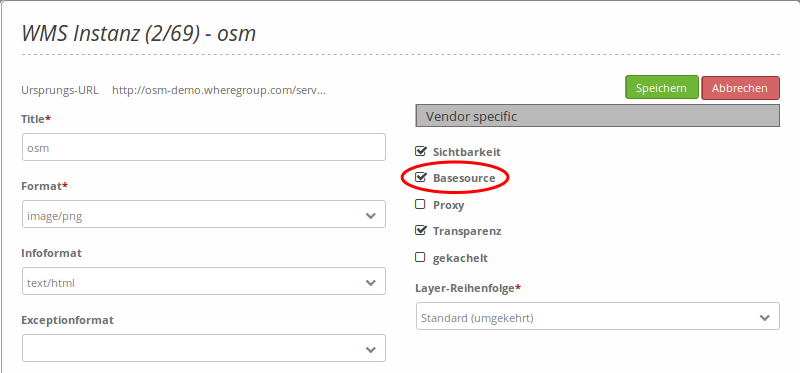
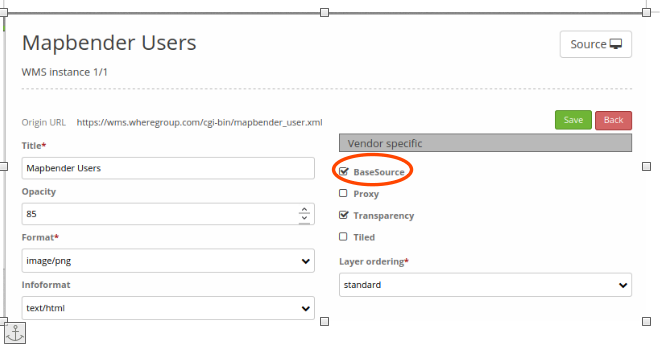
Update of the documentation regarding: quickstart basesourceswitcher
Additionally some corrections of spelling mistakes in the German version.

diff --git a/de/quickstart.rst b/de/quickstart.rst
@@ -34,7 +34,7 @@ Mapbender Quickstart: Erste Schritte mit Mapbender
 
 Mapbender ist ein web-basiertes Geoportal Framework zum Veröffentlichen, Registrieren, Anzeigen, Navigieren und Überwachen von Diensten, mit der Möglichkeit Dienste gesichert anzubieten.
 
-Administrationsoberflächen ermöglichen es Administratoren Karten- und Datendienste zu verwalten und zu kategorisieren. Über die Administration können einzelnen Benutzern und Gruppen Zugriffe gewährt werden.
+Administrationsoberflächen ermöglichen es Administratoren, Karten- und Datendienste zu verwalten und zu kategorisieren. Über die Administration können einzelnen Benutzern und Gruppen Zugriffe gewährt werden.
 
 Mapbender wurde unter Verwendung moderner Webtechnologien komplett neu geschrieben. Die Grundlage bildet das Symfony Framework. Auf der Clientseite finden Sie OpenLayers.
 
@@ -46,7 +46,7 @@ Mit dieser neuen Code-Grundlage wird die Mapbender Idee eines Geoportal Framewor
   * Der Administrator braucht keine Zeile Code zu schreiben, da die Konfiguration über die webbasierte Administrationsoberfläche erfolgt.
   * Suchen (SQL oder Solr) können konfiguriert werden.
   * Anwendungen zur Digitalisierung können aufgebaut werden
-  * Ein Mobiles Template kann für das Erstellen von Anwendung für Smartphones und Tablets verwendet werden
+  * Ein Mobiles Template kann für das Erstellen von Anwendungen für Smartphones und Tablets verwendet werden
 
 Sie brauchen nichts weiter als einen Standard Webbrowser für diesen Schnellstart (Quickstart).
 
@@ -78,7 +78,7 @@ Starten Sie Mapbender
 
 #. Die Anwendung braucht eine kurze Zeit, um zu starten.
 
-Falls Sie Schwierigkeiten haben, Mapbender zu starten, überprüfen Sie ob der Apache Web Server und die PostgreSQL Datenbank laufen.
+Falls Sie Schwierigkeiten haben, Mapbender zu starten, überprüfen Sie, ob der Apache Web Server und die PostgreSQL Datenbank laufen.
 
 
 
@@ -156,7 +156,7 @@ Ihre Anwendung wurde erstellt. Jetzt brauchen Sie Elemente (z.B. Kartenelement, 
   .. image:: ../figures/mapbender_create_application.png
 
 
-.. tip:: Beachten Sie, dass derzeit die Layout-, Icon- und Farbanpassungen im online über den CSS_Editor oder in css- und twig-Dateien erfolgen. Lesen Sie dazu die Dokumentation unter `Wie werden eigene Vorlagen (templates) erzeugt? <customization/templates.html>`_.
+.. tip:: Beachten Sie, dass derzeit die Layout-, Icon- und Farbanpassungen online über den CSS_Editor oder in css- und twig-Dateien erfolgen. Lesen Sie dazu die Dokumentation unter `Wie werden eigene Vorlagen (templates) erzeugt? <customization/templates.html>`_.
 
 
 Kopieren und Umbenennen einer Anwendung
@@ -269,13 +269,12 @@ Sie können Dienste für Ihre Anwendung konfigurieren. Vielleicht möchten Sie n
 **Dienstekonfiguration:**
 
 * Titel: Name der bei der Anwendung angezeigt wird
+* Opacity: wählen Sie die Opazität (Deckkraft) in Prozent
 * Format: wählen Sie das Format für den getMap-Requests
 * Infoformat: wählen Sie das Format für getFeatureInfo-Requests (text/html für die Ausgabe als HTML wird empfohlen)
 * Exceptionformat: wählen Sie das Format für Fehlermeldungen
-* Opacity: wählen Sie die Opazität (Deckkraft) in Prozent
 * Kachel-Puffer (Tile buffer): Dieser Parameter gilt für Dienste, die gekachelt angefordert werden und gibt an, ob weitere umgebende Kacheln abgerufen werden sollen. Damit sind diese bei einer Pan-Bewegung schon heruntergeladen und sichtbar. Je höher der Wert, desto mehr umgebende Kacheln werden abgerufen. Default: 0.
 * BBOX-Faktor: Dieser Parameter gilt für Dienste, die nicht-gekachelt angefordert werden. Hier kann man angeben, wie groß das zurückgegebene Bild sein soll. Ein Wert größer 1 wird ein größeres Kartenbild anfordern. Default: 1.25 und kann auf 1 gesetzt werden.
-* Sichtbarkeit (Visible): soll der Dienst sichtbar sein
 * BaseSource: soll der Dienst als BaseSource behandelt werden (BaseSources können beim Ebenenbaum ein-/ausgeblendet werden)
 * Proxy: bei Aktivierung wird der Dienst über Mapbender als Proxy angefordert
 * Transparenz: Standard ist aktiviert, deaktiviert wird der Dienst ohne transparenten Hintergrund angefordert (getMap-Request mit TRANSPARENT=FALSE)
@@ -295,19 +294,13 @@ hängen. Es können auch feste Werte übermittelt werden.
 Das folgende Beispiel zeigt die Definition eines Parameters „group“, der als
 Inhalt die Gruppe des gerade in Mapbender angemeldeten Nutzers weitergibt.
 
-.. image:: ../figures/mapbender3_vendor_specific_parameter.png
+.. image:: ../figures/mapbender_vendor_specific_parameter.png
 
-* Type: „single“, „multiple“, „interval“ (multiple Values in Dimensions)
+* Vstype: Mapbender spezifische Variablen: Gruppe (groups), User (users), Simple.
 * Name: Parameter Name im WMS Request.
 * Default: Standardwert.
-* Extent: Verfügbare Werte (bei Multiple als kommaseparierte Liste).
-* Vstype: Mapbender spezifische Variablen: Gruppe (groups), User (users), Simple.
+
 * Hidden: Wenn der Wert gesetzt ist, werden die Anfragen serverseitig versendet, so dass die Parameter nicht direkt sichtbar sind.
-
-Momentan eignet sich das Element, um Benutzer und Gruppeninformationen
-weiterzugeben, z.B. für Benutzer die $id$ und für Gruppen den Parameter
-$groups$.
-
 
 **Layerkonfiguration:**
 
@@ -321,7 +314,6 @@ $groups$.
 * Aufklappen (toggle) - aufklappen beim Start der Anwendung
 * Sortieren (reorder) - Ebenen können über drag&drop in der Anwendung verschoben werden
 * ... -> öffnet einen Dialog mit weiteren Informationen
-* name - Layername der Service Information (wird beim getMap-Request verwendet und ist nicht veränderbar)
 * Style - wenn ein WMS mehr als einen Stil anbietet, können Sie einen anderen Stil als den standard (default) Stil wählen.
 
 
@@ -336,7 +328,7 @@ Mapbender bietet eine Reihe von Elementen (Modulen) an, aus denen Sie Ihre Anwen
 
 #. Wählen Sie ein Element aus der Liste aus.
 
-#. Beachten Sie die verschiedenen Bereiche Ihrer Anwendung. Stellen Sie sicher, dass sie das Element zum richtigen Bereich hinzufügen.
+#. Beachten Sie die verschiedenen Bereiche Ihrer Anwendung. Stellen Sie sicher, dass Sie das Element zum richtigen Bereich hinzufügen.
 
 #. Konfigurieren Sie das Element. Hinweis: Wenn Sie ein Element z.B. **Karte (map)** auswählen, sehen Sie lediglich die Optionen für dieses Element und können es entsprechend konfigurieren.
 
@@ -344,7 +336,7 @@ Mapbender bietet eine Reihe von Elementen (Modulen) an, aus denen Sie Ihre Anwen
 
 #. Schauen Sie sich Ihre Anwendung an. Öffnen Sie Ihre Anwendung über den Button |mapbender-button-show|.
 
-Jetzt sollten sie eine Idee davon haben, wie einfach es ist eine Mapbender-Anwendung ohne Codes zu verändern.
+Jetzt sollten sie eine Idee davon haben, wie einfach es ist, eine Mapbender-Anwendung ohne Codes zu verändern.
 
 
   .. image:: ../figures/mapbender_application_elements.png

diff --git a/en/quickstart.rst b/en/quickstart.rst
@@ -268,7 +268,6 @@ You can configure the WMS for your specific application. Maybe you don't want to
 * Opacity: choose opacity in percent
 * Tile buffer: This parameter is valid for tiles services and specifies if additional tiles should be requested. If the user pans the map, these tiles are already downloaded and visible. The higher the value the more tiles are requested. Default: 0
 * BBOX-Faktor: This parameter is valid for non-tiled WMS services. You can specify the size of the returned map-image. A value greater than 1 will request a bigger map-image. Default: 1.25, can be set to 1.
-* Visible: set the visibility of the request
 * BaseSource: should the Service be handled as BaseSource (BaseSources can be shown/hided in the layertree)
 * Proxy: if active the service will be requested by Mapbender and not directly
 * Transparency: default is active, the source is without a transparent background if it is deactivated (getMap-Request with TRANSPARENT=FALSE)
@@ -288,20 +287,15 @@ also add hard coded values.
 The following example shows the definition of the parameter "group" which
 transfers the group-value of the logged-in user.
 
-.. image:: ../figures/mapbender3_vendor_specific_parameter.png
+.. image:: ../figures/mapbender_vendor_specific_parameter.png
            :scale: 80
 
 
-
-* Type: „single“, „multiple“, „interval“ (multiple values in dimensions)
+* Vstype: Mapbender specific variables. Group (groups), User (users), Simple.
 * Name: parameter name of the WMS request.
 * Default: the default value.
-* Extent: available values (multiple as a comma seperated list).
-* Vstype: Mapbender specific variables. Group (groups), User (users), Simple.
-* Hidden: If this value is set, requests are send via a server so that the parameters are not directly visible.
 
-Currently, the element can be used to transfer user- and groupinformation,
-e.g. for a user the $id$ and for groups the value $group$.
+* Hidden: If this value is set, requests are send via a server so that the parameters are not directly visible.
 
 
 **Layer configuration:**

diff --git a/de/functions/basic/layertree.rst b/de/functions/basic/layertree.rst
@@ -29,7 +29,7 @@ Funktionen
            :scale: 80
            :alt: Komplexer Layertree mit mehreren Layersets in der Seitenleiste, unterteilt in thematischen Gruppen. 
 
-           Komplexer Layertree mit mehreren Layersets in der Seitenleiste, unterteilt in thematischen Gruppen. 
+           Komplexer Layertree mit mehreren Layersets in der Seitenleiste, unterteilt in thematische Gruppen. 
 
 
 Zur Konfiguration des Layerbaums gibt es verschiedene Verknüpfungspunkte zu anderen Elementen, die beachtet werden müssen: 
@@ -65,7 +65,7 @@ Eine genaue Dokumentation, wie die Dienste korrekt eingebunden werden können, f
            Einrichtung verschiedener Layersets für die Einbindung in den Layertree.
 
 Damit die neu eingebundenen Layersets auch in der Anwendung erscheinen, müssen diese in dem `Kartenelement <map.html>`_ angegeben werden. 
-Hier gibt man durch das Ankreuzen **[1]** der Layersets an, welche Layersets in der Kartenansicht verwendet werden sollen. Der Layerset "overview" wird beispielsweise nicht in der Hauptkarte angezeigt.  
+Hier gibt man durch das Ankreuzen **[1]** der Layersets an, welche Layersets in der Kartenansicht verwendet werden sollen. Das Layerset "overview" wird beispielsweise nicht in der Hauptkarte angezeigt.  
 In diesem Schritt wird auch die Reihenfolge definiert, in der die Layersets im Layertree und in der Karte erscheinen sollen. Die erstellten Layersets können in der Auflistung per Drag & Drop verschoben werden. Bitte achten Sie darauf, dass die weiter oben definierten Themen die darunter liegenden Themen überdecken können.
 
 

diff --git a/de/installation/installation_git.rst b/de/installation/installation_git.rst
@@ -11,4 +11,4 @@ In den Quellen finden Sie auch den Contributing Guide, der die Schritte zur Entw
 
 `https://github.com/mapbender/mapbender-starter/blob/master/CONTRIBUTING.md <https://github.com/mapbender/mapbender-starter/blob/master/CONTRIBUTING.md>`_.
 
-Überblick: Die Git-basierte Installation ist für die Entwicklung von Mapbender gedacht oder für projekt-spezifische Anpassungen, die sie in einem geklonten Mapbender-Starter ablegen können. Dort können Sie dann ihre eigenen Templates, ihre eigenen Anwendungen oder eigene Bundles hinterlegen. Über den Composer laden sie dann die Module Mapbender, OWSProxy, FOM, Digitizer und alle weiteren in der Version ein, die sie benötigen. Bei einem Update des Mapbenders vergleichen Sie den Stand der Mapbender-Starter. Die grundsätzlichen Anpassungen sind die Versionen in der ``composer.json``.
+Überblick: Die Git-basierte Installation ist für die Entwicklung von Mapbender gedacht oder für projekt-spezifische Anpassungen, die Sie in einem geklonten Mapbender-Starter ablegen können. Dort können Sie dann ihre eigenen Templates, ihre eigenen Anwendungen oder eigene Bundles hinterlegen. Über den Composer laden sie dann die Module Mapbender, OWSProxy, FOM, Digitizer und alle weiteren in der Version ein, die Sie benötigen. Bei einem Update des Mapbenders vergleichen Sie den Stand der Mapbender-Starter. Die grundsätzlichen Anpassungen sind die Versionen in der ``composer.json``.

diff --git a/de/functions/basic/zoom_bar.rst b/de/functions/basic/zoom_bar.rst
@@ -51,7 +51,7 @@ Ist das Navigationswerkzeug wie in der Abbildung eingestellt, wird die Karte bei
 .. image:: ../../../figures/de/navigationtoolbar_example_step_30percent.png
      :scale: 60
 
-Die Komponente **History** besteht aus zwei Pfeilen. Durch Anklicken des linken Pfeils (zurück) springt die Kartenansicht auf denjenigen Ausschnitt oder diejenige Zoomstufe zurück, die vor dem Verschieben der Karte sichtbar war. Durch Anklicken des rechten Pfeils (vor) springt die Kartenansicht auf den aktuelleren Kartenausschnitt bzw. die aktuellere Zoomstufe. Um diese Funktion zu verdeutlichen ist hier ein Beispiel:
+Die Komponente **History** besteht aus zwei Pfeilen. Durch Anklicken des linken Pfeils (zurück) springt die Kartenansicht auf denjenigen Ausschnitt oder diejenige Zoomstufe zurück, die vor dem Verschieben der Karte sichtbar war. Durch Anklicken des rechten Pfeils (vor) springt die Kartenansicht auf den aktuelleren Kartenausschnitt bzw. die aktuellere Zoomstufe. Um diese Funktion zu verdeutlichen, ist hier ein Beispiel:
 
 .. image:: ../../../figures/de/navigationtoolbar_example_history.png
      :scale: 60

diff --git a/de/installation/update.rst b/de/installation/update.rst
@@ -41,7 +41,7 @@ Im Folgenden sind die einzelnen Schritte als Befehle aufgeführt.
  
  # Händisch müssen Sie nun die Konfigurationsdateien auf neue Parameter überprüfen.
  # Vergleichen Sie die Dateien parameters.yml, config.yml und sofern verwendet die mapbender.yml.
- # Sofern Sie eigene Templates angelegt haben, vergeleichen Sie diese mit der neuen Mapbender Version.
+ # Sofern Sie eigene Templates angelegt haben, vergleichen Sie diese mit der neuen Mapbender Version.
  # Sofern Sie Vorschaubilder hochgeladen haben: Kopieren Sie diese von der alten Version wieder nach mapbender/web/uploads.
  # Sofern Sie eigene Druckvorlagen verwenden: Kopieren Sie diese wieder nach mapbender/app/Resources/MapbenderPrintBundle/templates/.
 

diff --git a/de/functions/basic/basesourceswitcher.rst b/de/functions/basic/basesourceswitcher.rst
@@ -20,7 +20,7 @@ Zu jeder Datenquelle kann eine Gruppe definiert werden. Alle Definitionen einer 
 Konfiguration
 =============
 
-Die Konfiguration geschieht in zwei Schritten:
+Die Konfiguration geschieht in zwei Schritten im Content-Bereich:
 
 #. Erzeugen eines Elements zum Wechseln der vordefinierten Themen (Titel, Tooltip und Target)
 #. Hinzufügen von Themen mit einer oder mehrerer Quellen und optionaler Definition einer Gruppe

diff --git a/de/functions/basic/map.rst b/de/functions/basic/map.rst
@@ -100,7 +100,7 @@ auf die drei Punkte des Layers und ein Popupfenster erscheint.
 .. image:: ../../../figures/wms_instance_layer_id.png
      :scale: 80
 
-Der erste Wert nenn die interne SourceID und SourceLayerId (31-591). Der
+Der erste Wert nennt die interne SourceID und SourceLayerId (31-591). Der
 zweite Wert listet die InstanceID und InstanceLayerId, die wir im weiteren
 nutzen wollen (73-836).
 

diff --git a/en/functions/basic/basesourceswitcher.rst b/en/functions/basic/basesourceswitcher.rst
@@ -18,7 +18,7 @@ You have the possibility to define groups. All sourcesets of the same group will
 Configuration
 =============
 
-The configuration occurs in 2 steps:
+The configuration occurs in 2 steps in the context section:
 
 #. Create a BaseSourceSwitcher Element with Title, Tooltip and Target
 #. Add Sourceset(s) with one or more sources and definition of a group (optional)
